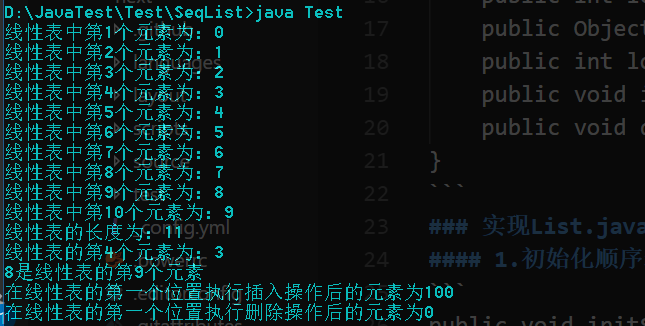
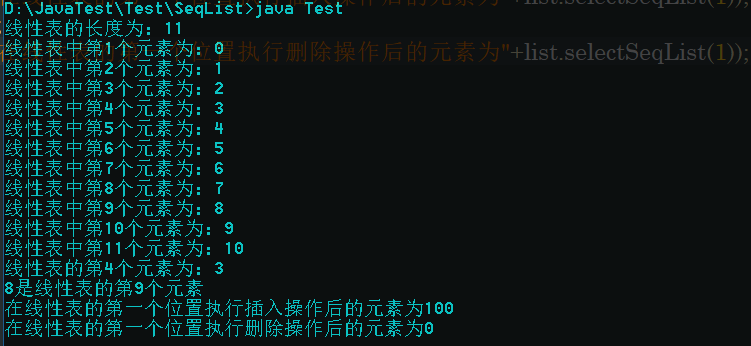
Site updated: 2019-01-07 16:54:55

diff --git a/2019/01/06/顺序表的java实现/index.html b/2019/01/06/顺序表的java实现/index.html
@@ -89,7 +89,7 @@
 <meta property="og:locale" content="zh-Hans">
 <meta property="og:image" content="http://yoursite.com/2019/01/06/顺序表的java实现/1.png">
 <meta property="og:image" content="http://yoursite.com/2019/01/06/顺序表的java实现/2.png">
-<meta property="og:updated_time" content="2019-01-07T08:24:13.113Z">
+<meta property="og:updated_time" content="2019-01-07T08:53:58.514Z">
 <meta name="twitter:card" content="summary">
 <meta name="twitter:title" content="顺序表的java实现">
 <meta name="twitter:description" content="顺序表顺序表是线性表的顺序存储结构，在内存中用地址连续的一块存储空间顺序存放线性表的各个元素。内存中的地址空间实现线性的，因此用物理上的相邻实现数据元素之间的逻辑相邻是非常合理的。顺序表结构如下图：一维数组在内存中也是连续的存储空间，因此可以用一维数组来表示顺序表。可以用一个java接口(interface)List.java来表示顺序表：123456789public interface Lis">
@@ -363,7 +363,7 @@
 <h4 id="5-按值查找，返回元素的位置，这里的位置同上"><a href="#5-按值查找，返回元素的位置，这里的位置同上" class="headerlink" title="5.按值查找，返回元素的位置，这里的位置同上"></a>5.按值查找，返回元素的位置，这里的位置同上</h4><figure class="highlight aspectj"><table><tr><td class="gutter"><pre><span class="line">1</span><br><span class="line">2</span><br><span class="line">3</span><br><span class="line">4</span><br><span class="line">5</span><br><span class="line">6</span><br><span class="line">7</span><br><span class="line">8</span><br><span class="line">9</span><br><span class="line">10</span><br></pre></td><td class="code"><pre><span class="line"><span class="keyword">public</span> <span class="function"><span class="keyword">int</span> <span class="title">locateSeqList</span><span class="params">(Object x)</span> <span class="keyword">throws</span> Exception</span>&#123;	</span><br><span class="line">		<span class="keyword">int</span> i=<span class="number">0</span>;</span><br><span class="line">		<span class="keyword">while</span>(i&lt;=last&amp;&amp;data[i]!=x)&#123;</span><br><span class="line">			i++;</span><br><span class="line">		&#125;</span><br><span class="line">		<span class="keyword">if</span>(i&gt;last+<span class="number">1</span>)&#123;</span><br><span class="line">			<span class="keyword">throw</span> <span class="keyword">new</span> Exception(<span class="string">"位置参数错误，查找失败"</span>);</span><br><span class="line">		&#125;</span><br><span class="line">		<span class="keyword">return</span> i+<span class="number">1</span>;										<span class="comment">//查找成功，返回位置。</span></span><br><span class="line">	&#125;</span><br></pre></td></tr></table></figure>
 <h4 id="6-把元素的插入指定的位置，位置同上"><a href="#6-把元素的插入指定的位置，位置同上" class="headerlink" title="6.把元素的插入指定的位置，位置同上"></a>6.把元素的插入指定的位置，位置同上</h4><figure class="highlight axapta"><table><tr><td class="gutter"><pre><span class="line">1</span><br><span class="line">2</span><br><span class="line">3</span><br><span class="line">4</span><br><span class="line">5</span><br><span class="line">6</span><br><span class="line">7</span><br><span class="line">8</span><br><span class="line">9</span><br><span class="line">10</span><br><span class="line">11</span><br><span class="line">12</span><br><span class="line">13</span><br></pre></td><td class="code"><pre><span class="line"><span class="keyword">public</span> <span class="keyword">void</span> insertSeqList(<span class="keyword">int</span> <span class="keyword">index</span>,Object x) throws Exception&#123;		</span><br><span class="line">		<span class="keyword">if</span>(last+<span class="number">1</span>==MAXSIZE)&#123;</span><br><span class="line">			<span class="keyword">throw</span> <span class="keyword">new</span> Exception(<span class="string">"顺序表已满，无法插入"</span>);</span><br><span class="line">		&#125;</span><br><span class="line">		<span class="keyword">if</span>(<span class="keyword">index</span>&lt;<span class="number">0</span>||<span class="keyword">index</span>&gt;last+<span class="number">1</span>)&#123;</span><br><span class="line">			<span class="keyword">throw</span> <span class="keyword">new</span> Exception(<span class="string">"位置参数错误"</span>);</span><br><span class="line">		&#125;</span><br><span class="line">		<span class="keyword">for</span>(<span class="keyword">int</span> j=last;j&gt;=<span class="keyword">index</span><span class="number">-1</span>;j--)&#123;</span><br><span class="line">			data[j+<span class="number">1</span>]=data[j];</span><br><span class="line">		&#125;</span><br><span class="line">		data[<span class="keyword">index</span><span class="number">-1</span>]=x;</span><br><span class="line">		last++;                             <span class="comment">//最后一个元素后移</span></span><br><span class="line">	&#125;</span><br></pre></td></tr></table></figure>
 <h4 id="7-删除指定位置的元素，位置同上"><a href="#7-删除指定位置的元素，位置同上" class="headerlink" title="7.删除指定位置的元素，位置同上"></a>7.删除指定位置的元素，位置同上</h4><figure class="highlight axapta"><table><tr><td class="gutter"><pre><span class="line">1</span><br><span class="line">2</span><br><span class="line">3</span><br><span class="line">4</span><br><span class="line">5</span><br><span class="line">6</span><br><span class="line">7</span><br><span class="line">8</span><br><span class="line">9</span><br></pre></td><td class="code"><pre><span class="line"><span class="keyword">public</span> <span class="keyword">void</span> deleteSeqList(<span class="keyword">int</span> <span class="keyword">index</span>) throws Exception&#123;		</span><br><span class="line">		<span class="keyword">if</span>(<span class="keyword">index</span>&lt;<span class="number">1</span>||<span class="keyword">index</span>&gt;last+<span class="number">1</span>)&#123;</span><br><span class="line">			<span class="keyword">throw</span> <span class="keyword">new</span> Exception(<span class="string">"参数位置错误，不存在第index个元素"</span>);</span><br><span class="line">		&#125;</span><br><span class="line">		<span class="keyword">for</span>(<span class="keyword">int</span> j=<span class="keyword">index</span>;j&lt;last+<span class="number">1</span>;j++)&#123;</span><br><span class="line">			data[j<span class="number">-1</span>]=data[j];</span><br><span class="line">			last--;                 <span class="comment">//删除后最后一个元素向前移</span></span><br><span class="line">		&#125;</span><br><span class="line">	&#125;</span><br></pre></td></tr></table></figure>
-<h3 id="编写测试类进行测试"><a href="#编写测试类进行测试" class="headerlink" title="编写测试类进行测试"></a>编写测试类进行测试</h3><figure class="highlight cpp"><table><tr><td class="gutter"><pre><span class="line">1</span><br><span class="line">2</span><br><span class="line">3</span><br><span class="line">4</span><br><span class="line">5</span><br><span class="line">6</span><br><span class="line">7</span><br><span class="line">8</span><br><span class="line">9</span><br><span class="line">10</span><br><span class="line">11</span><br><span class="line">12</span><br><span class="line">13</span><br><span class="line">14</span><br><span class="line">15</span><br><span class="line">16</span><br><span class="line">17</span><br><span class="line">18</span><br><span class="line">19</span><br><span class="line">20</span><br><span class="line">21</span><br><span class="line">22</span><br><span class="line">23</span><br><span class="line">24</span><br><span class="line">25</span><br><span class="line">26</span><br><span class="line">27</span><br><span class="line">28</span><br></pre></td><td class="code"><pre><span class="line"><span class="comment">//顺序表测试类，测试顺序表</span></span><br><span class="line"><span class="keyword">public</span> <span class="class"><span class="keyword">class</span> <span class="title">Test</span>&#123;</span></span><br><span class="line">	<span class="function"><span class="keyword">public</span> <span class="keyword">static</span> <span class="keyword">void</span> <span class="title">main</span><span class="params">(String[] args)</span></span>&#123;										</span><br><span class="line">		SeqList <span class="built_in">list</span>=<span class="keyword">new</span> SeqList(<span class="number">30</span>);</span><br><span class="line">		<span class="built_in">list</span>.initSeqList(<span class="number">30</span>);</span><br><span class="line">		</span><br><span class="line">		<span class="keyword">try</span>&#123;</span><br><span class="line">			<span class="keyword">for</span>(<span class="keyword">int</span> i=<span class="number">0</span>;i&lt;=<span class="number">10</span>;i++)&#123;</span><br><span class="line">				<span class="built_in">list</span>.addSeqList(i);</span><br><span class="line">			&#125;</span><br><span class="line">			<span class="keyword">for</span>(<span class="keyword">int</span> i=<span class="number">1</span>;i&lt;<span class="built_in">list</span>.last+<span class="number">1</span>;i++)&#123;</span><br><span class="line">				System.out.println(<span class="string">"线性表中第"</span>+i+<span class="string">"个元素为："</span>+<span class="built_in">list</span>.selectSeqList(i));</span><br><span class="line">			&#125;</span><br><span class="line">		</span><br><span class="line">			System.out.println(<span class="string">"线性表的长度为："</span>+<span class="built_in">list</span>.lengthSeqList());</span><br><span class="line">			System.out.println(<span class="string">"线性表的第4个元素为："</span>+<span class="built_in">list</span>.selectSeqList(<span class="number">4</span>));</span><br><span class="line">			System.out.println(<span class="string">"8是线性表的第"</span>+<span class="built_in">list</span>.locateSeqList(<span class="number">8</span>)+<span class="string">"个元素"</span>);</span><br><span class="line">			<span class="built_in">list</span>.insertSeqList(<span class="number">1</span>,<span class="number">100</span>);</span><br><span class="line">			System.out.println(<span class="string">"在线性表的第一个位置执行插入操作后的元素为"</span>+<span class="built_in">list</span>.selectSeqList(<span class="number">1</span>));</span><br><span class="line">			<span class="built_in">list</span>.deleteSeqList(<span class="number">1</span>);</span><br><span class="line">			System.out.println(<span class="string">"在线性表的第一个位置执行删除操作后的元素为"</span>+<span class="built_in">list</span>.selectSeqList(<span class="number">1</span>));</span><br><span class="line">			</span><br><span class="line">			</span><br><span class="line">		&#125;<span class="keyword">catch</span>(Exception e)&#123;</span><br><span class="line">			e.printStackTrace();</span><br><span class="line">		&#125;</span><br><span class="line">	&#125;</span><br><span class="line">&#125;</span><br></pre></td></tr></table></figure>
+<h3 id="编写测试类进行测试"><a href="#编写测试类进行测试" class="headerlink" title="编写测试类进行测试"></a>编写测试类进行测试</h3><figure class="highlight cpp"><table><tr><td class="gutter"><pre><span class="line">1</span><br><span class="line">2</span><br><span class="line">3</span><br><span class="line">4</span><br><span class="line">5</span><br><span class="line">6</span><br><span class="line">7</span><br><span class="line">8</span><br><span class="line">9</span><br><span class="line">10</span><br><span class="line">11</span><br><span class="line">12</span><br><span class="line">13</span><br><span class="line">14</span><br><span class="line">15</span><br><span class="line">16</span><br><span class="line">17</span><br><span class="line">18</span><br><span class="line">19</span><br><span class="line">20</span><br><span class="line">21</span><br><span class="line">22</span><br><span class="line">23</span><br><span class="line">24</span><br><span class="line">25</span><br><span class="line">26</span><br><span class="line">27</span><br><span class="line">28</span><br></pre></td><td class="code"><pre><span class="line"><span class="comment">//顺序表测试类，测试顺序表</span></span><br><span class="line"><span class="keyword">public</span> <span class="class"><span class="keyword">class</span> <span class="title">Test</span>&#123;</span></span><br><span class="line">	<span class="function"><span class="keyword">public</span> <span class="keyword">static</span> <span class="keyword">void</span> <span class="title">main</span><span class="params">(String[] args)</span></span>&#123;										</span><br><span class="line">		SeqList <span class="built_in">list</span>=<span class="keyword">new</span> SeqList(<span class="number">30</span>);</span><br><span class="line">		<span class="built_in">list</span>.initSeqList(<span class="number">30</span>);</span><br><span class="line">		</span><br><span class="line">		<span class="keyword">try</span>&#123;</span><br><span class="line">			<span class="keyword">for</span>(<span class="keyword">int</span> i=<span class="number">0</span>;i&lt;=<span class="number">10</span>;i++)&#123;</span><br><span class="line">				<span class="built_in">list</span>.addSeqList(i);</span><br><span class="line">			&#125;</span><br><span class="line">			<span class="keyword">for</span>(<span class="keyword">int</span> i=<span class="number">1</span>;i=&lt;<span class="built_in">list</span>.last+<span class="number">1</span>;i++)&#123;</span><br><span class="line">				System.out.println(<span class="string">"线性表中第"</span>+i+<span class="string">"个元素为："</span>+<span class="built_in">list</span>.selectSeqList(i));</span><br><span class="line">			&#125;</span><br><span class="line">		</span><br><span class="line">			System.out.println(<span class="string">"线性表的长度为："</span>+<span class="built_in">list</span>.lengthSeqList());</span><br><span class="line">			System.out.println(<span class="string">"线性表的第4个元素为："</span>+<span class="built_in">list</span>.selectSeqList(<span class="number">4</span>));</span><br><span class="line">			System.out.println(<span class="string">"8是线性表的第"</span>+<span class="built_in">list</span>.locateSeqList(<span class="number">8</span>)+<span class="string">"个元素"</span>);</span><br><span class="line">			<span class="built_in">list</span>.insertSeqList(<span class="number">1</span>,<span class="number">100</span>);</span><br><span class="line">			System.out.println(<span class="string">"在线性表的第一个位置执行插入操作后的元素为"</span>+<span class="built_in">list</span>.selectSeqList(<span class="number">1</span>));</span><br><span class="line">			<span class="built_in">list</span>.deleteSeqList(<span class="number">1</span>);</span><br><span class="line">			System.out.println(<span class="string">"在线性表的第一个位置执行删除操作后的元素为"</span>+<span class="built_in">list</span>.selectSeqList(<span class="number">1</span>));</span><br><span class="line">			</span><br><span class="line">			</span><br><span class="line">		&#125;<span class="keyword">catch</span>(Exception e)&#123;</span><br><span class="line">			e.printStackTrace();</span><br><span class="line">		&#125;</span><br><span class="line">	&#125;</span><br><span class="line">&#125;</span><br></pre></td></tr></table></figure>
 <p>测试结果如下图：<br><img src="/2019/01/06/顺序表的java实现/2.png" alt="顺序表测试" title="顺序表测试结果"></p>
 <h6 id="（第一次写博客，坑多得一批）"><a href="#（第一次写博客，坑多得一批）" class="headerlink" title="（第一次写博客，坑多得一批）"></a>（第一次写博客，坑多得一批）</h6>
       

diff --git a/css/main.css b/css/main.css
@@ -1823,7 +1823,7 @@ pre .javascript .function {
   width: 4px;
   height: 4px;
   border-radius: 50%;
-  background: #a8ffb6;
+  background: #ff368f;
 }
 .links-of-blogroll {
   font-size: 13px;
